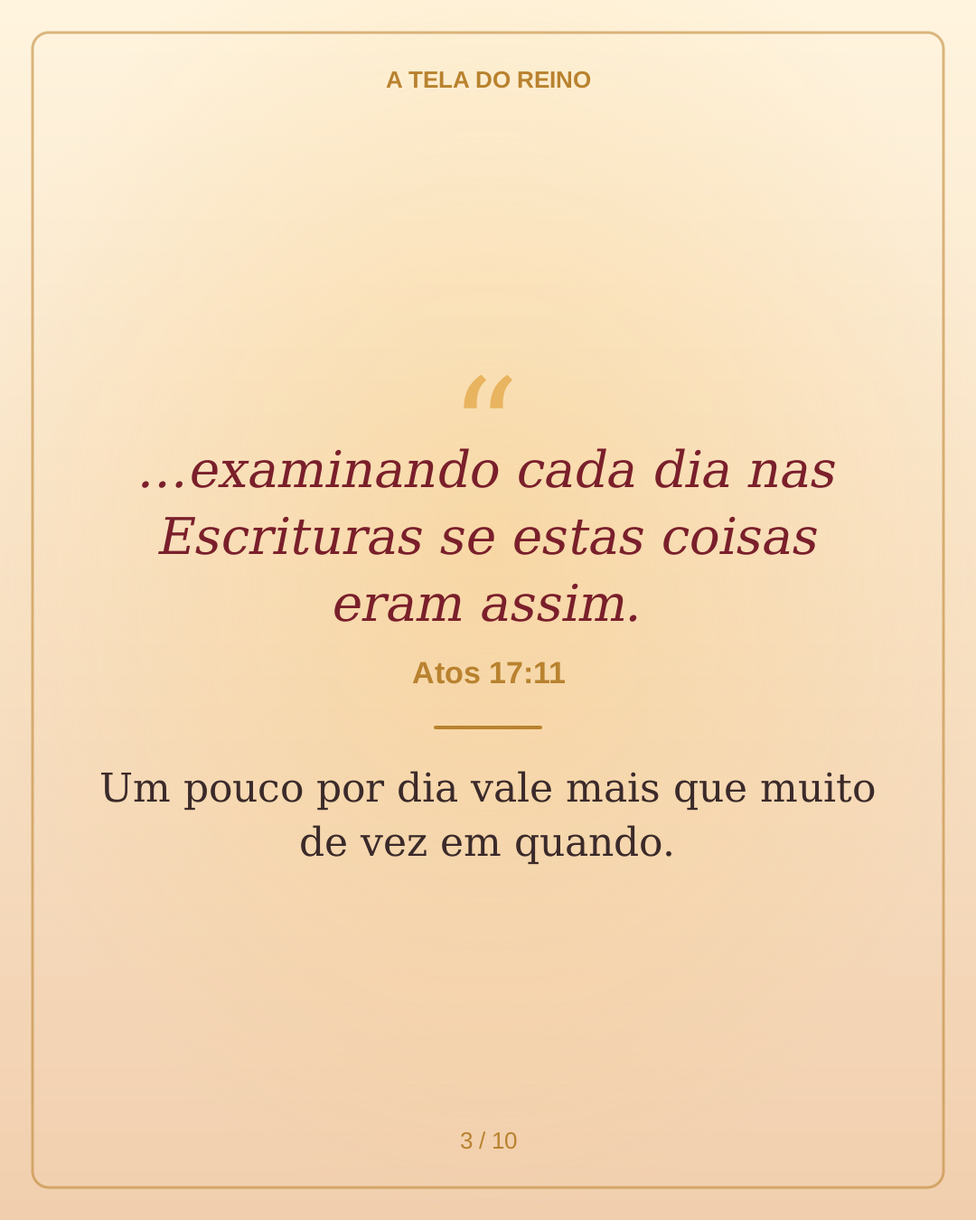
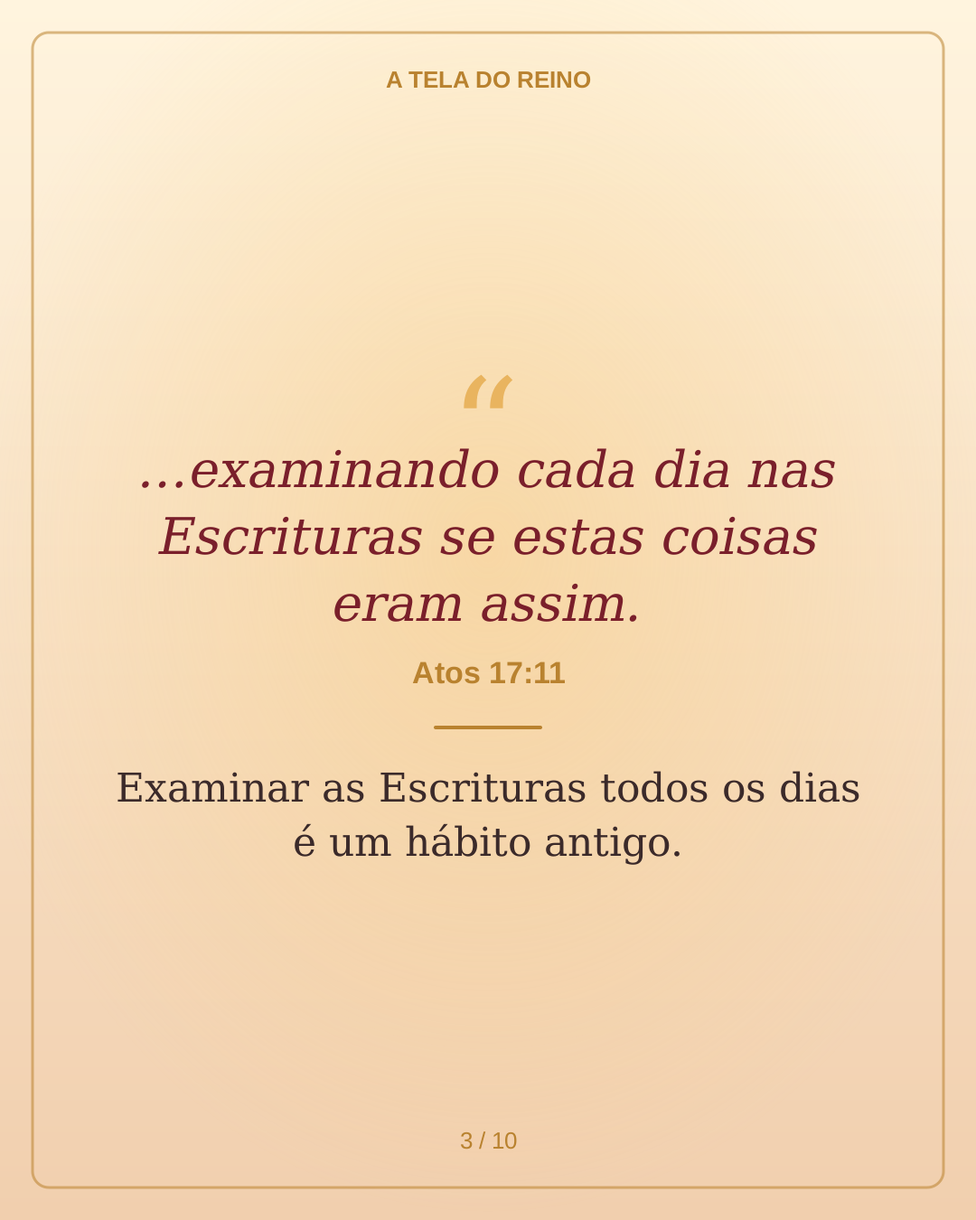
Aplica as revisões do conteúdo social (oração, devocional, ansiedade, Bíblia)
Claude-Session: https://claude.ai/code/session_01TaZ1Ysq3cwQ8BzGdezT1Bq

Changed region(s): [[0.0917, 0.6222, 0.8861, 0.7156]]

diff --git a/conteudo-social/o-poder-da-oracao-no-dia-a-dia/youtube.md b/conteudo-social/o-poder-da-oracao-no-dia-a-dia/youtube.md
@@ -2,7 +2,7 @@
 
 Artigo de origem: `src/content/blog/o-poder-da-oracao-no-dia-a-dia.md`
 Link: https://ateladoreino.com/blog/o-poder-da-oracao-no-dia-a-dia
-Duração prevista: cerca de 7 minutos (narração de cerca de 819 palavras, a ~140 palavras por minuto, mais pausas para as imagens).
+Duração prevista: cerca de 7 minutos (narração de cerca de 828 palavras, a ~140 palavras por minuto, mais pausas para as imagens).
 
 ## Título
 
@@ -18,7 +18,7 @@ Duração prevista: cerca de 7 minutos (narração de cerca de 819 palavras, a ~
 ### 1. Abertura (0:00 a 0:35)
 
 **Narração:**
-Você acha que não sabe orar? Muita gente associa a oração a longos períodos de joelhos e a uma linguagem religiosa difícil. E, por isso, ora pouco. Mas a Bíblia apresenta a oração de um jeito mais próximo e mais simples. Orar é conversar com Deus como um filho conversa com o pai: com sinceridade, sem fórmulas e a qualquer hora do dia. Neste vídeo, você vai ver o que Jesus ensinou sobre orar, hábitos para orar ao longo do dia e o que fazer quando a resposta demora. Eu sou Leonardo Paiva, do canal A Tela do Reino.
+Você acha que não sabe orar? Muita gente associa a oração a longos períodos de joelhos e a uma linguagem religiosa difícil. Mas a Bíblia apresenta a oração de um jeito mais próximo e mais simples. Orar é conversar com Deus como um filho conversa com o pai: com sinceridade, sem fórmulas e a qualquer hora do dia. Neste vídeo, você vai ver o que Jesus ensinou sobre orar, hábitos para orar ao longo do dia e o que fazer quando a resposta demora. Eu sou Leonardo Paiva, do canal A Tela do Reino.
 
 **Na tela:** ilustração do artigo, a pessoa ajoelhada diante da janela em arco iluminada. Texto grande: "O PODER DA ORAÇÃO". Legenda: "no dia a dia". Logo "A Tela do Reino" no canto.
 
@@ -59,11 +59,11 @@ Orações simples também são orações. Algumas ideias. Ao acordar: Senhor, es
 ### 6. Quando a resposta demora (4:20 a 5:35)
 
 **Narração:**
-E quando a resposta demora? Nem sempre recebemos o que esperamos, no tempo que gostaríamos. A Bíblia convida a apresentar os pedidos a Deus com gratidão e fala de uma paz que guarda o coração, em Filipenses 4:6 e 7. Mas ela não promete que a resposta virá exatamente como pedimos. A oração não é um contrato. Ela mantém o coração perto de Deus enquanto esperamos.
+E quando a resposta demora? Nem sempre recebemos o que esperamos, no tempo que gostaríamos. A Bíblia convida a apresentar os pedidos a Deus com gratidão e fala de uma paz que guarda o coração, em Filipenses 4:6 e 7. Mas ela não promete que a resposta virá exatamente como pedimos. A oração não é um contrato. Ela pode manter o coração perto de Deus enquanto esperamos.
 
 Jesus contou uma parábola, em Lucas 18:1, sobre "o dever de orar sempre e nunca desfalecer." Persistir na oração não é cansar Deus com repetição. É continuar confiando mesmo quando o cenário ainda não mudou.
 
-E Tiago 5:16 diz que "a oração feita por um justo pode muito em seus efeitos." Ser justo, aqui, não significa ser perfeito, e sim viver um relacionamento verdadeiro com Deus, reconhecendo a própria necessidade da graça. O texto encoraja a orar com confiança, mas também não garante que Deus responderá exatamente como pedimos.
+E Tiago 5:16 diz que "a oração feita por um justo pode muito em seus efeitos." O texto fala da oração pelos enfermos e lembra o exemplo de Elias. Ser justo, aqui, não significa ser perfeito, e sim viver um relacionamento verdadeiro com Deus, reconhecendo a própria necessidade da graça. O texto encoraja a orar com confiança, mas também não garante que Deus responderá exatamente como pedimos.
 
 **Na tela:** Filipenses 4:6-7 com a referência. Depois, Lucas 18:1 e Tiago 5:16. Texto de apoio: "Oração não é contrato. É confiança."
 
@@ -110,6 +110,6 @@ Leonardo Paiva, A Tela do Reino.
 ## Ideia de miniatura
 
 - **Imagem:** a ilustração do artigo (pessoa ajoelhada diante da janela em arco iluminada), recortada para 16:9, com a janela no terço direito.
-- **Texto curto:** "ORE ASSIM" em letras grandes e, embaixo, menor, "no meio da rotina".
+- **Texto curto:** "ORE NA ROTINA" em letras grandes e, embaixo, menor, "sem complicação".
 - **Cores:** texto creme (`#fff7e8`) com contorno vinho (`#7a1f2b`).
 - **Sem rostos.**

diff --git a/conteudo-social/encontrar-paz-em-meio-a-ansiedade/youtube.md b/conteudo-social/encontrar-paz-em-meio-a-ansiedade/youtube.md
@@ -2,7 +2,7 @@
 
 Artigo de origem: `src/content/blog/encontrar-paz-em-meio-a-ansiedade.md`
 Link: https://ateladoreino.com/blog/encontrar-paz-em-meio-a-ansiedade
-Duração prevista: cerca de 7 minutos (narração de cerca de 815 palavras, a ~140 palavras por minuto, mais pausas para as imagens).
+Duração prevista: cerca de 7 minutos e 30 segundos (narração de cerca de 868 palavras, a ~140 palavras por minuto, mais pausas para as imagens).
 
 ## Título
 
@@ -41,7 +41,7 @@ E tem um detalhe que dá peso a esse conselho: Paulo escreve isso da prisão. El
 ### 4. A paz que guarda (2:10 a 3:05)
 
 **Narração:**
-O texto continua, no versículo 7: "E a paz de Deus, que excede todo o entendimento, guardará o vosso coração e os vossos sentimentos em Cristo Jesus." Essa paz funciona como uma sentinela. Ela protege o interior enquanto o exterior ainda está em movimento.
+O texto continua, no versículo 7: "E a paz de Deus, que excede todo o entendimento, guardará os vossos corações…" Essa paz funciona como uma sentinela. Ela protege o interior enquanto o exterior ainda está em movimento.
 
 Jesus fala de uma paz parecida, em João 14:27: "a minha paz vos dou." E Isaías 26:3 diz: "Tu conservarás em paz aquele cuja mente está firme em ti." Em todos esses textos, a paz vem da presença de Deus, e não da ausência de problemas.
 
@@ -68,14 +68,14 @@ Agora, um exercício para quando a mente estiver acelerada. Se puder, faça comi
 
 **Na tela:** os cinco passos numerados: "Respire", "Nomeie", "Entregue", "Agradeça", "Escolha um passo". Pausas visuais curtas entre eles.
 
-### 8. Quando procurar ajuda profissional (5:40 a 6:20)
+### 8. Quando procurar ajuda profissional (5:40 a 6:45)
 
 **Narração:**
-A ansiedade pode ser uma resposta normal a um período difícil, mas também pode ser um quadro que precisa de tratamento. Vale buscar um médico ou psicólogo quando a preocupação dura semanas e você não consegue controlá-la. Quando há mudanças no sono, no apetite ou na concentração. Quando surgem crises de pânico, falta de ar ou palpitações frequentes. Ou quando a ansiedade atrapalha o trabalho, os estudos ou os relacionamentos. Procurar ajuda não é falta de fé. Cuidar da mente é parte de cuidar da vida que Deus deu a você.
+A ansiedade pode ser uma resposta normal a um período difícil, mas também pode ser um quadro que precisa de tratamento. Vale buscar um médico ou psicólogo quando a preocupação dura semanas e você não consegue controlá-la. Quando há mudanças no sono, no apetite ou na concentração. Quando surgem crises de pânico, falta de ar ou palpitações frequentes. Ou quando a ansiedade atrapalha o trabalho, os estudos ou os relacionamentos. Procurar ajuda não é falta de fé. A oração traz paz e perspectiva, e muitas pessoas sentem alívio ao orar. Mas ela não substitui o tratamento quando há um quadro de ansiedade persistente. Os dois caminhos se completam. E um bom texto para ler devagar, em voz alta se possível, é Filipenses 4:6 e 7, junto com 1 Pedro 5:7 e Mateus 6, do versículo 25 ao 34. Cuidar da mente é parte de cuidar da vida que Deus deu a você.
 
 **Na tela:** lista de quatro sinais com marcadores. Texto final: "Procurar ajuda não é falta de fé."
 
-### 9. Oração e encerramento (6:20 a 7:05)
+### 9. Oração e encerramento (6:45 a 7:30)
 
 **Narração:**
 Vamos orar juntos. Senhor, minha mente está cheia e o meu coração, apertado. Eu te entrego o que eu não consigo controlar. Ensina-me a confiar um dia de cada vez e a pedir ajuda quando eu precisar. Dá-me a tua paz e guarda os meus pensamentos em ti. Amém.
@@ -99,7 +99,7 @@ Capítulos:
 3:50 Práticas que ajudam
 4:50 Oração de cinco minutos
 5:40 Quando procurar ajuda profissional
-6:20 Oração e encerramento
+6:45 Oração e encerramento
 
 Conteúdo devocional. Não substitui ajuda profissional, médica ou pastoral. No Brasil, o CVV atende gratuitamente, 24 horas, pelo 188.
 

diff --git a/conteudo-social/como-ter-um-devocional-diario/youtube.md b/conteudo-social/como-ter-um-devocional-diario/youtube.md
@@ -2,7 +2,7 @@
 
 Artigo de origem: `src/content/blog/como-ter-um-devocional-diario.md`
 Link: https://ateladoreino.com/blog/como-ter-um-devocional-diario
-Duração prevista: cerca de 7 minutos (narração de cerca de 828 palavras, a ~140 palavras por minuto, mais pausas para as imagens).
+Duração prevista: cerca de 7 minutos (narração de cerca de 838 palavras, a ~140 palavras por minuto, mais pausas para as imagens).
 
 ## Título
 
@@ -50,16 +50,16 @@ O hábito cresce quando está ligado a algo que você já faz. Pode ser logo ao 
 ### 5. O método LEO, com um exemplo (3:25 a 4:45)
 
 **Narração:**
-Agora, um modelo fácil de lembrar: o LEO. L de leia: leia a passagem do dia com calma, se possível duas vezes. E de explique: diga com as suas palavras o que o texto diz. O que ele revela sobre Deus? O de oriente: pergunte, como isso se aplica a mim hoje? Depois, feche com uma oração curta.
+Agora, um modelo fácil de lembrar: o LEO. L de leia: leia a passagem do dia com calma, se possível duas vezes. E de explique: diga com as suas palavras o que o texto diz. O que ele revela sobre Deus? O de oriente: pergunte a si mesmo como isso se aplica a você hoje. Depois, feche com uma oração curta.
 
 Veja um exemplo com o Salmo 119, versículo 105: "Lâmpada para os meus pés é tua palavra e luz, para o meu caminho." Leia: duas vezes, devagar. Explique: uma lâmpada para os pés não ilumina a estrada inteira, só o próximo passo. A Palavra de Deus orienta o caminho dia após dia. Oriente: qual é a decisão pequena de hoje em que eu preciso de luz? Pode ser uma conversa difícil, uma tarefa ou a forma de usar o tempo. E ore: Senhor, ilumina o meu próximo passo. Ajuda-me a confiar em ti e a agir com sabedoria. Amém.
 
-**Na tela:** as letras L, E e O grandes, uma de cada vez, com a palavra completa ao lado. Depois, Salmos 119:105 com a referência e uma lanterna iluminando só um trecho do caminho.
+**Na tela:** as letras L, E e O grandes, uma de cada vez, com a palavra completa ao lado. Depois, Salmos 119:105 com a referência e uma lamparina (lâmpada a óleo) iluminando só o próximo passo.
 
 ### 6. O que ler e como registrar (4:45 a 5:35)
 
 **Narração:**
-O que ler nas primeiras semanas? Na semana um, um capítulo do Evangelho de Marcos por dia. Na semana dois, um salmo por dia, por exemplo do Salmo 1 ao Salmo 7. Na semana três, um capítulo de Provérbios por dia. São 31 capítulos, bons para ler um por dia.
+O que ler nas primeiras semanas? Na semana um, um capítulo do Evangelho de Marcos por dia. Na semana dois, um salmo por dia, por exemplo do Salmo 1 ao Salmo 7. Na semana três, um capítulo de Provérbios por dia. São 31 capítulos, um para cada dia do mês.
 
 E registre o que aprendeu. Três linhas bastam: o versículo, o que você aprendeu e uma atitude para o dia. Com o tempo, esse registro mostra como Deus foi falando com você em diferentes fases da vida, e ajuda a retomar o hábito depois de uma pausa.
 
@@ -75,7 +75,7 @@ Você vai perder dias. Isso acontece com todo mundo. A diferença está no retor
 ### 8. Oração e encerramento (6:20 a 7:05)
 
 **Narração:**
-Vamos orar juntos. Senhor, obrigado por este novo dia e por falares comigo pela tua Palavra. Abre os meus olhos para entender o que vou ler e o meu coração para obedecer. Ajuda-me a ser constante, sem pressa e sem culpa. Amém.
+Vamos orar juntos. Senhor, obrigado por este novo dia e por falares comigo pela tua Palavra. Abre os meus olhos para entender o que vou ler e o meu coração para obedecer. Ajuda-me a ser constante, sem pressa e sem culpa. Que este tempo me aproxime de ti. Amém.
 
 Escolha um horário, separe dez minutos e comece pelo Evangelho de Marcos ou por um salmo. Não espere o momento perfeito. Leia o texto completo em ateladoreino.com. Se este vídeo ajudou você, inscreva-se no canal A Tela do Reino. Um abraço, Leonardo Paiva, A Tela do Reino.
 

diff --git a/conteudo-social/encontrar-paz-em-meio-a-ansiedade/curtos.md b/conteudo-social/encontrar-paz-em-meio-a-ansiedade/curtos.md
@@ -11,9 +11,9 @@ Os 3 vídeos tratam de pontos diferentes do artigo. Todos levam o aviso de conte
 A Bíblia não manda "parar de se preocupar".
 
 **Narração (cerca de 35 segundos):**
-Em Filipenses, Paulo escreve: não estejais inquietos por coisa alguma. Mas repare no que vem depois. Ele convida a levar os pedidos a Deus em oração, com ação de graças. A preocupação é trazida para a oração, e a oração vem com gratidão. E Paulo escreveu isso da prisão. A paz que ele descreve não depende de a vida estar em ordem. É uma paz que guarda o coração enquanto as coisas ainda estão se resolvendo.
+Em Filipenses 4, versículo 6, Paulo escreve: não estejais inquietos por coisa alguma. Mas repare no que vem depois. Ele convida a levar os pedidos a Deus em oração, com ação de graças. A preocupação é trazida para a oração, e a oração vem com gratidão. E Paulo escreveu isso da prisão. A paz que ele descreve não depende de a vida estar em ordem. É uma paz que guarda o coração enquanto as coisas ainda estão se resolvendo.
 
-**Versículo:** "…a paz de Deus, que excede todo o entendimento, guardará o vosso coração…" (Filipenses 4:7)
+**Versículo:** "…a paz de Deus, que excede todo o entendimento, guardará os vossos corações…" (Filipenses 4:7)
 
 **Chamada final:** Salve este vídeo para quando a mente acelerar. Leia o texto completo em ateladoreino.com.
 
@@ -55,7 +55,7 @@ Ter ansiedade é falta de fé?
 **Narração (cerca de 35 segundos):**
 Não. Muitas pessoas de fé enfrentam ansiedade, e a Bíblia mostra gente aflita levando a angústia a Deus. A oração traz paz e perspectiva, mas não substitui o tratamento quando a ansiedade persiste. Procure um médico ou psicólogo se a preocupação dura semanas, se o sono e o apetite mudaram, se surgem crises de pânico ou se o trabalho e os relacionamentos estão sendo afetados. Fé e cuidado profissional caminham juntos.
 
-**Versículo:** "Não vos inquieteis, pois, pelo dia de amanhã…" (Mateus 6:34)
+**Versículo:** "Tu conservarás em paz aquele cuja mente está firme em ti…" (Isaías 26:3)
 
 **Chamada final:** Compartilhe com alguém que precisa ouvir isso. Leia o texto completo em ateladoreino.com.
 

diff --git a/conteudo-social/como-ler-a-biblia-todos-os-dias/curtos.md b/conteudo-social/como-ler-a-biblia-todos-os-dias/curtos.md
@@ -8,7 +8,7 @@ Os 3 vídeos tratam de pontos diferentes do artigo.
 ## Vídeo 1: não comece pelo Gênesis
 
 **Gancho (letras grandes, 3 primeiros segundos):**
-Vai ler a Bíblia? Não comece pelo Gênesis.
+Vai ler a Bíblia? Talvez não pelo Gênesis.
 
 **Narração (cerca de 35 segundos):**
 Muita gente tenta ler do Gênesis ao Apocalipse e desiste nos livros de leis e genealogias. Não é falta de fé: é um ponto de partida difícil. Um caminho mais simples: comece pelo Evangelho de Marcos, o mais curto dos quatro evangelhos, direto e cheio de ação. Depois, os Salmos. Em seguida, uma carta curta, como Filipenses ou Tiago. E Provérbios, um capítulo por dia. O Antigo Testamento fica mais fácil depois, com mais contexto.
@@ -47,9 +47,9 @@ Orar, ler duas vezes, perguntar e agir. Experimente amanhã na sua leitura.
 Hábito em 21 dias? Não é bem assim.
 
 **Narração (cerca de 35 segundos):**
-Um estudo publicado no European Journal of Social Psychology acompanhou voluntários criando um hábito novo. O tempo até ele ficar automático variou de 18 a 254 dias. O estudo não era sobre leitura bíblica, mas a lição serve: não existe prazo mágico. E outra descoberta: perder um único dia não derrubou o hábito. Então, se você falhar, não tente compensar lendo cinco capítulos. Só volte de onde parou. Constância, não perfeição.
+Um estudo publicado no European Journal of Social Psychology acompanhou voluntários criando um hábito novo. O tempo até ele ficar automático variou de 18 a 254 dias. O estudo não era sobre leitura bíblica, mas a lição serve: não existe prazo mágico. E outra descoberta: perder um único dia não atrapalhou de forma relevante. Então, se você falhar, não tente compensar lendo cinco capítulos. Só volte de onde parou. Constância, não perfeição.
 
-**Versículo:** "Lâmpada para os meus pés é tua palavra…" (Salmos 119:105)
+**Versículo:** "Toda Escritura divinamente inspirada é proveitosa para ensinar…" (2 Timóteo 3:16)
 
 **Chamada final:** Compartilhe com alguém que quer ler a Bíblia todos os dias. Leia o texto completo em ateladoreino.com.
 

diff --git a/conteudo-social/como-ter-um-devocional-diario/curtos.md b/conteudo-social/como-ter-um-devocional-diario/curtos.md
@@ -10,7 +10,7 @@ Os 3 vídeos tratam de pontos diferentes do artigo.
 **Gancho (letras grandes, 3 primeiros segundos):**
 Seu devocional não precisa de uma hora.
 
-**Narração (cerca de 30 segundos):**
+**Narração (cerca de 35 segundos):**
 Muita gente começa um plano de leitura bíblica cheio de entusiasmo e desiste duas semanas depois. Muitas vezes, o problema é a meta grande demais. Comece com dez minutos. Um minuto de silêncio e uma oração curta. Quatro minutos lendo a passagem duas vezes. Três minutos pensando no que o texto diz e no que ele pede de você. E dois minutos de oração, com uma anotação. Dez minutos bem vividos valem mais do que uma hora que você nunca repete.
 
 **Versículo:** "…entra no teu aposento e, fechando a tua porta, ora a teu Pai…" (Mateus 6:6)
@@ -29,7 +29,7 @@ Muita gente começa um plano de leitura bíblica cheio de entusiasmo e desiste d
 Três letras para o seu devocional: LEO.
 
 **Narração (cerca de 35 segundos):**
-Um modelo fácil de lembrar para o devocional é o LEO. L: leia a passagem com calma, se possível duas vezes. E: explique com as suas palavras. O que o texto revela sobre Deus? O: oriente a sua vida. Como isso se aplica a mim hoje? Por exemplo, o Salmo 119:105. Uma lâmpada para os pés não ilumina a estrada inteira, só o próximo passo. Então pergunte: em qual decisão de hoje eu preciso de luz? E feche com uma oração curta.
+Um modelo fácil de lembrar para o devocional é o LEO. L: leia a passagem com calma, se possível duas vezes. E: explique com as suas palavras. O que o texto revela sobre Deus? O: oriente a sua vida. Como isso se aplica a mim hoje? Por exemplo, o Salmo 119, versículo 105. Uma lâmpada para os pés não ilumina a estrada inteira, só o próximo passo. Então pergunte: em qual decisão de hoje eu preciso de luz? E feche com uma oração curta.
 
 **Versículo:** "Lâmpada para os meus pés é tua palavra e luz, para o meu caminho." (Salmos 119:105)
 

diff --git a/conteudo-social/o-poder-da-oracao-no-dia-a-dia/curtos.md b/conteudo-social/o-poder-da-oracao-no-dia-a-dia/curtos.md
@@ -26,7 +26,7 @@ Orar é conversar com Deus como um filho conversa com o pai. Sem fórmulas, com 
 ## Vídeo 2: orar sem cessar na rotina
 
 **Gancho (letras grandes, 3 primeiros segundos):**
-"Orar sem cessar" não é ficar de joelhos o dia todo.
+"Orai sem cessar" não é ficar de joelhos o dia todo.
 
 **Narração (cerca de 35 segundos):**
 Paulo escreveu: orai sem cessar. Isso não significa passar o dia ajoelhado, e sim manter o coração voltado para Deus durante a rotina. Alguns momentos ajudam. Ao acordar, entregue o dia a Deus antes de olhar as notificações. Antes de uma reunião ou conversa difícil, faça uma oração rápida, mesmo de olhos abertos. No caminho para o trabalho, converse com Deus. E à noite, agradeça por três coisas do dia.
@@ -47,7 +47,7 @@ Desafio de 7 dias: escolha um momento da rotina e transforme-o em pausa de oraç
 Orou e nada mudou?
 
 **Narração (cerca de 35 segundos):**
-Nem sempre a resposta vem como esperamos, no tempo que gostaríamos. A Bíblia não promete que vai ser exatamente como pedimos. Mas Jesus contou uma parábola para ensinar que devemos orar sempre e não desanimar. Persistir na oração não é cansar Deus com repetição. É continuar confiando, mesmo quando o cenário ainda não mudou. Enquanto você espera, a oração mantém o seu coração perto de Deus.
+Nem sempre a resposta vem como esperamos, no tempo que gostaríamos. A Bíblia não promete que vai ser exatamente como pedimos. Mas Jesus contou uma parábola para ensinar que devemos orar sempre e não desanimar. Persistir na oração não é cansar Deus com repetição. É continuar confiando, mesmo quando o cenário ainda não mudou. Enquanto você espera, a oração pode manter o seu coração perto de Deus.
 
 **Versículo:** "…o dever de orar sempre e nunca desfalecer." (Lucas 18:1)
 

diff --git a/conteudo-social/como-ler-a-biblia-todos-os-dias/youtube.md b/conteudo-social/como-ler-a-biblia-todos-os-dias/youtube.md
@@ -2,7 +2,7 @@
 
 Artigo de origem: `src/content/blog/como-ler-a-biblia-todos-os-dias.md`
 Link: https://ateladoreino.com/blog/como-ler-a-biblia-todos-os-dias
-Duração prevista: cerca de 7 minutos e 20 segundos (narração de cerca de 912 palavras, a ~140 palavras por minuto, mais pausas para as imagens).
+Duração prevista: cerca de 7 minutos e 20 segundos (narração de cerca de 893 palavras, a ~140 palavras por minuto, mais pausas para as imagens).
 
 ## Título
 
@@ -18,7 +18,7 @@ Duração prevista: cerca de 7 minutos e 20 segundos (narração de cerca de 912
 ### 1. Abertura (0:00 a 0:35)
 
 **Narração:**
-Você quer ler a Bíblia todos os dias, mas não sabe por onde começar, ou sempre desiste no meio do caminho? Ler a Bíblia todos os dias é um hábito que se constrói com três coisas: um horário fixo, um ponto de partida simples e um método para entender o que você lê. Você não precisa de uma hora livre nem de conhecimento de teologia. Neste vídeo, você vai ver por onde começar, um método em quatro passos, um plano pronto de quatro semanas e o que fazer quando perder um dia. Eu sou Leonardo Paiva, do canal A Tela do Reino.
+Você quer ler a Bíblia todos os dias, mas não sabe por onde começar? Ler a Bíblia todos os dias é um hábito que se constrói com três coisas: um horário fixo, um ponto de partida simples e um método para entender o que você lê. Neste vídeo, você vai ver por onde começar, um método em quatro passos, um plano pronto de quatro semanas e o que fazer quando perder um dia. Eu sou Leonardo Paiva, do canal A Tela do Reino.
 
 **Na tela:** ilustração do artigo, o caminho entre colinas com quatro marcos dourados. Texto grande: "COMO LER A BÍBLIA". Legenda: "todos os dias". Logo "A Tela do Reino" no canto.
 

diff --git a/conteudo-social/como-ler-a-biblia-todos-os-dias/carrossel.md b/conteudo-social/como-ler-a-biblia-todos-os-dias/carrossel.md
@@ -9,11 +9,11 @@ Formato: 10 slides. Cada ponto tem no máximo 25 palavras. Citações na ARC.
 Como ler a Bíblia todos os dias
 
 **Slide 2:**
-Três coisas bastam: um horário fixo, um ponto de partida simples e um método para entender o que você lê.
+Três coisas ajudam a começar: um horário fixo, um ponto de partida simples e um método para entender o que você lê.
 
 **Slide 3:**
 "…examinando cada dia nas Escrituras se estas coisas eram assim." (Atos 17:11)
-Um pouco por dia vale mais que muito de vez em quando.
+Examinar as Escrituras todos os dias é um hábito antigo.
 
 **Slide 4:**
 Comece pequeno
@@ -37,7 +37,7 @@ Semanas 1 e 2: Marcos 1 a 14. Semana 3: Marcos 15 e 16 e Salmos. Semana 4: Filip
 
 **Slide 9:**
 "Lâmpada para os meus pés é tua palavra e luz, para o meu caminho." (Salmos 119:105)
-Perdeu um dia? Volte de onde parou.
+A Palavra ilumina um passo de cada vez.
 
 **Slide 10 (final):**
 Salve este post

diff --git a/conteudo-social/encontrar-paz-em-meio-a-ansiedade/carrossel.md b/conteudo-social/encontrar-paz-em-meio-a-ansiedade/carrossel.md
@@ -17,7 +17,7 @@ Conteúdo devocional. Não substitui ajuda profissional, médica ou pastoral. Em
 Paulo convida a levar cada preocupação a Deus, em oração e com gratidão.
 
 **Slide 4:**
-"…a paz de Deus, que excede todo o entendimento, guardará o vosso coração…" (Filipenses 4:7)
+"…a paz de Deus, que excede todo o entendimento, guardará os vossos corações…" (Filipenses 4:7)
 Ela guarda por dentro, mesmo sem tudo resolvido.
 
 **Slide 5:**

diff --git a/conteudo-social/o-poder-da-oracao-no-dia-a-dia/carrossel.md b/conteudo-social/o-poder-da-oracao-no-dia-a-dia/carrossel.md
@@ -33,7 +33,7 @@ Quando a resposta demora, continue confiando, mesmo que o cenário não tenha mu
 
 **Slide 8:**
 Oração não é contrato
-A Bíblia não promete que a resposta virá como pedimos. A oração mantém o coração perto de Deus enquanto esperamos.
+A Bíblia não promete que a resposta virá como pedimos. A oração pode manter o coração perto de Deus enquanto esperamos.
 
 **Slide 9:**
 Desafio de 7 dias

diff --git a/conteudo-social/como-ter-um-devocional-diario/carrossel.md b/conteudo-social/como-ter-um-devocional-diario/carrossel.md
@@ -37,7 +37,7 @@ Semana 1: Marcos. Semana 2: Salmos 1 a 7. Semana 3: Provérbios, um capítulo po
 
 **Slide 9:**
 "…novas são cada manhã; grande é a tua fidelidade." (Lamentações 3:23)
-Falhou um dia? Não compense. Volte amanhã, com a mesma simplicidade.
+Falhou um dia? Não tente compensar. Volte amanhã, com a mesma simplicidade.
 
 **Slide 10 (final):**
 Salve este post
